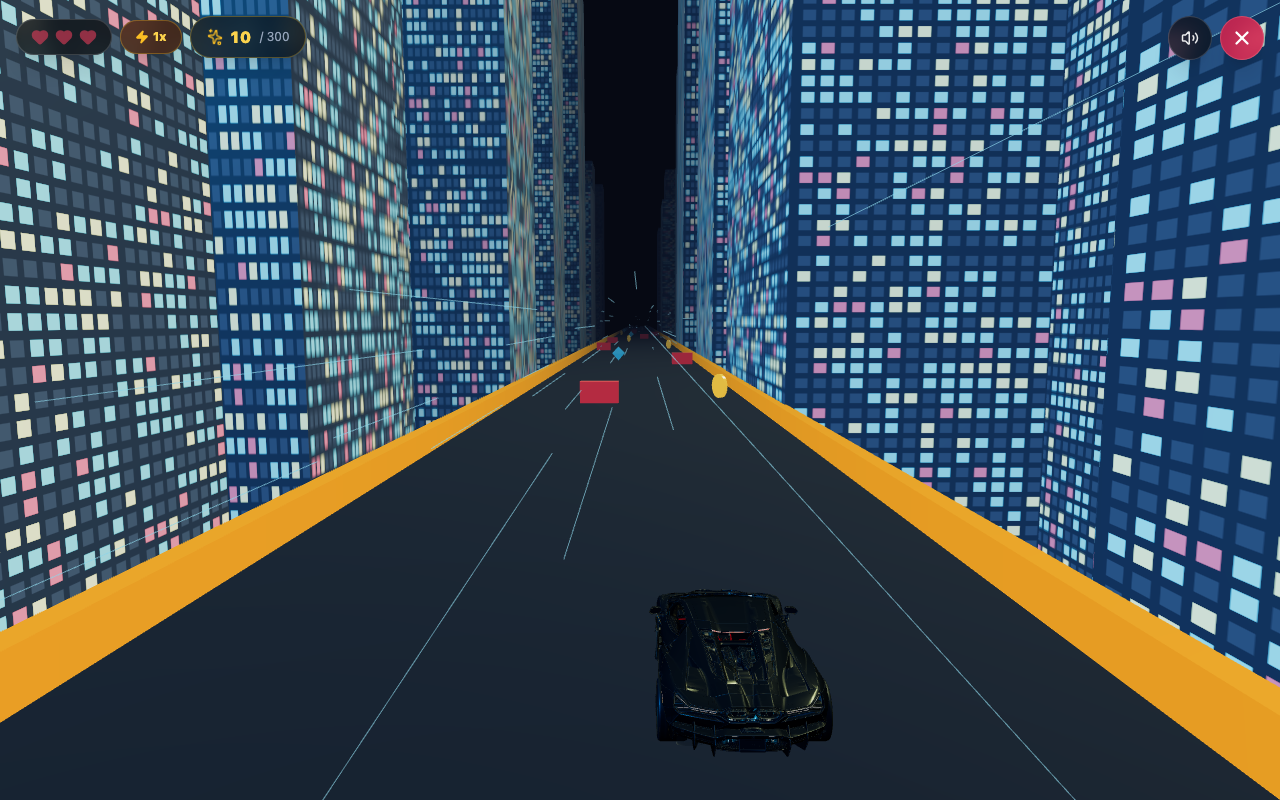
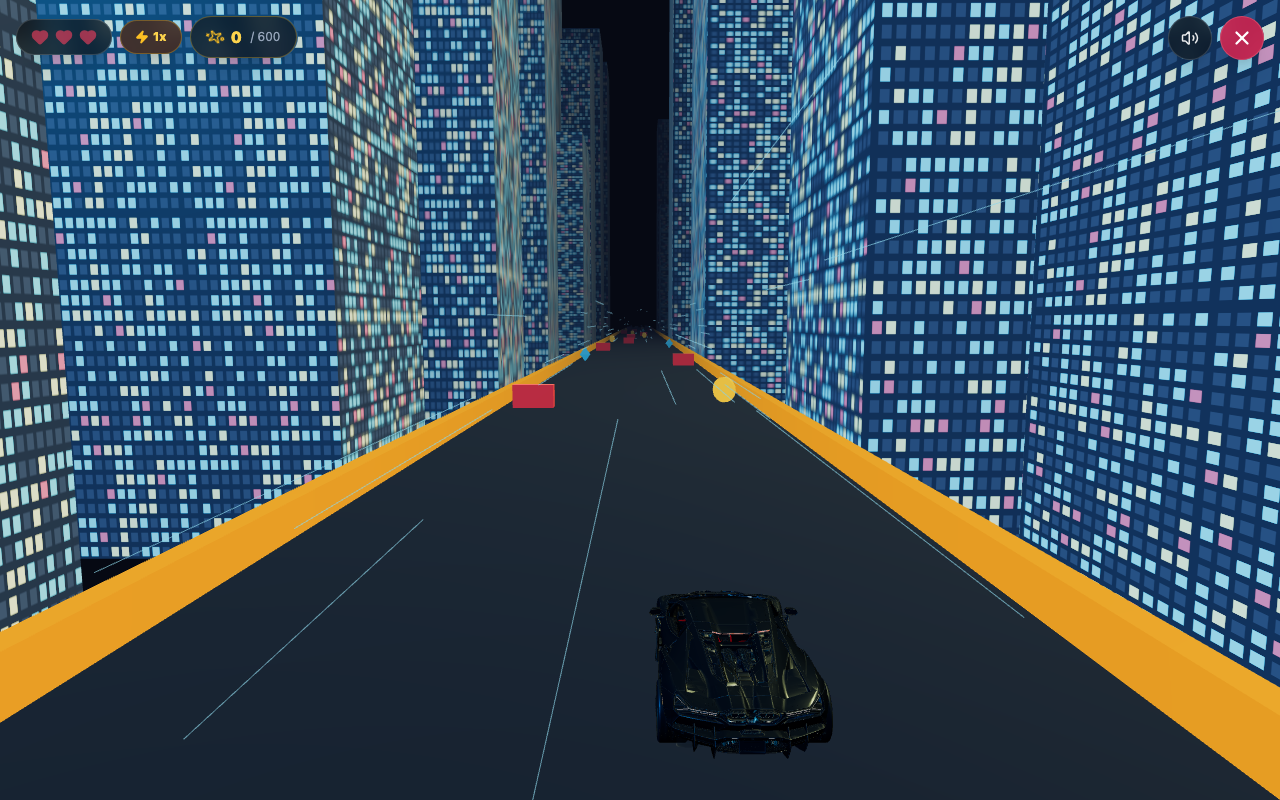
fix: realistic wet asphalt texture with bold 32px stripes, 3s collision slowdown with smooth recovery, 600 targetScore for 2x playtime duration across games

diff --git a/app/components/games/CarHighwayGame.tsx b/app/components/games/CarHighwayGame.tsx
@@ -66,45 +66,66 @@ const CARS: CarInfo[] = [
   },
 ];
 
-// Single Baked 4-Lane Asphalt Road Texture (Zero Z-Fighting, Zero Shadow Glitches)
+// Rich Realistic Wet Night Highway Asphalt Texture (Bold Crisp Stripes)
 function generateHighwayTextures() {
   const roadCanvas = document.createElement("canvas");
   roadCanvas.width = 512;
   roadCanvas.height = 512;
   const rCtx = roadCanvas.getContext("2d");
   if (rCtx) {
-    // Base dark asphalt
-    rCtx.fillStyle = "#1e293b";
+    // 1. Deep charcoal/navy wet asphalt base
+    rCtx.fillStyle = "#0d131d";
     rCtx.fillRect(0, 0, 512, 512);
 
-    // Fine asphalt grain noise
-    for (let i = 0; i < 7000; i++) {
+    // 2. Wet tire sheen / glossy reflection lanes
+    const sheenGrad = rCtx.createLinearGradient(0, 0, 512, 0);
+    sheenGrad.addColorStop(0, "rgba(20, 27, 41, 0.9)");
+    sheenGrad.addColorStop(0.25, "rgba(30, 41, 59, 0.6)");
+    sheenGrad.addColorStop(0.5, "rgba(15, 23, 42, 0.9)");
+    sheenGrad.addColorStop(0.75, "rgba(30, 41, 59, 0.6)");
+    sheenGrad.addColorStop(1, "rgba(20, 27, 41, 0.9)");
+    rCtx.fillStyle = sheenGrad;
+    rCtx.fillRect(0, 0, 512, 512);
+
+    // 3. Dense realistic asphalt aggregate noise
+    for (let i = 0; i < 12000; i++) {
       const x = Math.random() * 512;
       const y = Math.random() * 512;
-      const g = Math.floor(25 + Math.random() * 22);
-      rCtx.fillStyle = `rgb(${g}, ${g + 3}, ${g + 7})`;
-      rCtx.fillRect(x, y, 1.5, 1.5);
+      const shade = Math.floor(24 + Math.random() * 30);
+      rCtx.fillStyle = `rgb(${shade}, ${shade + 2}, ${shade + 6})`;
+      rCtx.fillRect(x, y, 2, 2);
     }
 
-    // 4 equal lanes: Dividers at 25%, 50%, 75% (128px, 256px, 384px)
-    rCtx.fillStyle = "#ffffff";
+    // 4. Crisp, bold white dashed lane dividers (32px wide for bold high-res visibility)
     [128, 256, 384].forEach((lx) => {
       for (let y = 0; y < 512; y += 64) {
-        rCtx.fillRect(lx - 4, y + 10, 8, 44);
+        // Outer soft glow
+        rCtx.fillStyle = "rgba(255, 255, 255, 0.3)";
+        rCtx.fillRect(lx - 16, y + 6, 32, 52);
+        // Solid pure white core
+        rCtx.fillStyle = "#ffffff";
+        rCtx.fillRect(lx - 12, y + 8, 24, 48);
       }
     });
 
-    // Solid bright amber shoulder lines
+    // 5. Solid bright safety amber highway shoulder lines (24px wide)
     rCtx.fillStyle = "#f59e0b";
-    rCtx.fillRect(4, 0, 10, 512);
-    rCtx.fillRect(512 - 14, 0, 10, 512);
+    rCtx.fillRect(0, 0, 22, 512);
+    rCtx.fillRect(512 - 22, 0, 22, 512);
+
+    // Inner bright yellow neon pinstripe
+    rCtx.fillStyle = "#fef08a";
+    rCtx.fillRect(16, 0, 6, 512);
+    rCtx.fillRect(512 - 22, 0, 6, 512);
   }
 
   const roadTex = new THREE.CanvasTexture(roadCanvas);
+  roadTex.generateMipmaps = false;
+  roadTex.minFilter = THREE.LinearFilter;
+  roadTex.magFilter = THREE.LinearFilter;
   roadTex.wrapS = THREE.RepeatWrapping;
   roadTex.wrapT = THREE.RepeatWrapping;
-  roadTex.repeat.set(1, 45);
-  roadTex.anisotropy = 8;
+  roadTex.repeat.set(1, 40);
   roadTex.needsUpdate = true;
 
   // Skyscraper window grid
@@ -122,11 +143,11 @@ function generateHighwayTextures() {
         if (r < 0.45) {
           bCtx.fillStyle = "#111827";
         } else if (r < 0.78) {
-          bCtx.fillStyle = "rgba(56, 189, 248, 0.95)"; // Neon Cyan
+          bCtx.fillStyle = "rgba(56, 189, 248, 0.95)";
         } else if (r < 0.94) {
-          bCtx.fillStyle = "rgba(254, 240, 138, 0.95)"; // Warm Amber
+          bCtx.fillStyle = "rgba(254, 240, 138, 0.95)";
         } else {
-          bCtx.fillStyle = "rgba(244, 63, 94, 0.9)"; // Red beacon
+          bCtx.fillStyle = "rgba(244, 63, 94, 0.9)";
         }
         bCtx.fillRect(x, y, 12, 14);
       }
@@ -190,7 +211,7 @@ class CarAudioSystem {
     if (!this.ctx || !this.engineOsc) return;
     try {
       const now = this.ctx.currentTime;
-      const targetFreq = 52 + speedRatio * 85;
+      const targetFreq = 50 + speedRatio * 80;
       this.engineOsc.frequency.setTargetAtTime(targetFreq, now, 0.1);
     } catch {}
   }
@@ -306,7 +327,7 @@ interface CarHighwayGameProps {
 export default function CarHighwayGame({
   onClose,
   onVictory,
-  targetScore = 500, // Doubled duration for long satisfying race!
+  targetScore = 600, // Doubled duration for long satisfying race!
 }: CarHighwayGameProps) {
   const mountRef = useRef<HTMLDivElement | null>(null);
   const audioSysRef = useRef<CarAudioSystem>(new CarAudioSystem());
@@ -322,7 +343,7 @@ export default function CarHighwayGame({
   const [soundMuted, setSoundMuted] = useState(false);
   const [hasInteracted, setHasInteracted] = useState(false);
 
-  // Exact 4-lane centers across 10m road (dividers at -2.5, 0.0, +2.5)
+  // Exact 4-lane centers across 10m road
   const LANES = [-3.75, -1.25, 1.25, 3.75];
 
   const gameRef = useRef({
@@ -330,11 +351,12 @@ export default function CarHighwayGame({
     score: 0,
     stars: 0,
     hearts: 3,
-    baseSpeed: 38,
-    speed: 38,
+    baseSpeed: 36,
+    speed: 36,
+    speedPenalty: 1.0, // Drops on crash to 0.45, recovers smoothly over 3s!
     targetX: 1.25,
     playerX: 1.25,
-    playerZ: -4.2, // Pushed forward so 100% of car body is visible in viewport!
+    playerZ: -4.2, // Fully visible with plenty of margin
     jumpY: 0,
     roadWidth: 10.0,
     roadLength: 500,
@@ -377,6 +399,7 @@ export default function CarHighwayGame({
     gameRef.current.targetX = 1.25;
     gameRef.current.playerX = 1.25;
     gameRef.current.jumpY = 0;
+    gameRef.current.speedPenalty = 1.0;
 
     if (gameRef.current.turntableMesh) {
       gameRef.current.turntableMesh.visible = false;
@@ -399,6 +422,7 @@ export default function CarHighwayGame({
     gameRef.current.stars = 0;
     gameRef.current.hearts = 3;
     gameRef.current.speed = gameRef.current.baseSpeed;
+    gameRef.current.speedPenalty = 1.0;
     gameRef.current.playerX = 1.25;
     gameRef.current.targetX = 1.25;
     gameRef.current.jumpY = 0;
@@ -429,6 +453,7 @@ export default function CarHighwayGame({
     gameRef.current.stars = 0;
     gameRef.current.hearts = 3;
     gameRef.current.speed = gameRef.current.baseSpeed;
+    gameRef.current.speedPenalty = 1.0;
     gameRef.current.playerX = 1.25;
     gameRef.current.targetX = 1.25;
     gameRef.current.jumpY = 0;
@@ -533,7 +558,7 @@ export default function CarHighwayGame({
     // 1. Scene
     const scene = new THREE.Scene();
     scene.background = new THREE.Color(0x060913);
-    scene.fog = new THREE.FogExp2(0x0a101f, 0.008);
+    scene.fog = new THREE.FogExp2(0x0a101f, 0.007);
     gameRef.current.scene = scene;
 
     // 2. Camera
@@ -542,7 +567,7 @@ export default function CarHighwayGame({
     camera.lookAt(0, 0.5, -1.8);
     gameRef.current.camera = camera;
 
-    // 3. Renderer (Clean 60fps, No shadow-map stair-stepping glitches)
+    // 3. Renderer (Clean 60fps, No shadow-map glitches)
     const renderer = new THREE.WebGLRenderer({ antialias: true, alpha: false, powerPreference: "high-performance" });
     renderer.setSize(width, height);
     renderer.setPixelRatio(Math.min(window.devicePixelRatio, 2));
@@ -568,7 +593,7 @@ export default function CarHighwayGame({
     scene.add(spotLight);
     scene.add(spotLight.target);
 
-    // 5. Seamless Asphalt Highway Deck (Baked Canvas with Zero Z-Fighting)
+    // 5. Seamless Wet Asphalt Highway Deck (Baked Canvas with Zero Z-Fighting)
     const roadWidth = 10.0;
     const roadLength = 500;
     const { roadTex, bldgTex } = generateHighwayTextures();
@@ -577,7 +602,7 @@ export default function CarHighwayGame({
     const roadGeo = new THREE.PlaneGeometry(roadWidth, roadLength);
     const roadMat = new THREE.MeshStandardMaterial({
       map: roadTex,
-      roughness: 0.75,
+      roughness: 0.35, // Sleek wet specular sheen
       metalness: 0.25,
       side: THREE.DoubleSide,
     });
@@ -616,7 +641,7 @@ export default function CarHighwayGame({
       scene.add(pier);
     }
 
-    // Active Glowing Skyscrapers (Strictly outside road boundaries: |x| >= 14.0)
+    // Active Glowing Night Skyscrapers
     const bldgMat = new THREE.MeshStandardMaterial({
       map: bldgTex,
       emissiveMap: bldgTex,
@@ -849,17 +874,24 @@ export default function CarHighwayGame({
       }
 
       if (gameRef.current.running) {
-        // Progressive gentle speed curve (max 1.35x cap, steady comfortable duration!)
-        const speedFactor = 1 + Math.min(gameRef.current.score / 400, 0.35);
-        gameRef.current.speed = gameRef.current.baseSpeed * speedFactor;
-        setSpeedMultiplier(parseFloat(speedFactor.toFixed(1)));
-        audioSysRef.current.updateEnginePitch(speedFactor);
+        // Smooth recovery from collision slowdown over 3.0 seconds
+        if (gameRef.current.speedPenalty < 1.0) {
+          gameRef.current.speedPenalty = Math.min(1.0, gameRef.current.speedPenalty + delta * 0.22);
+        }
 
-        const moveDist = gameRef.current.speed * delta;
+        // Progressive gentle speed curve: 1.0x -> max 1.30x over 600 points (2x longer duration!)
+        const speedFactor = 1.0 + Math.min(gameRef.current.score / 500, 0.3);
+        const effectiveSpeed = gameRef.current.baseSpeed * speedFactor * gameRef.current.speedPenalty;
+        gameRef.current.speed = effectiveSpeed;
 
-        // Smooth continuous UV texture scroll on single asphalt plane (ZERO Z-fighting)
+        setSpeedMultiplier(parseFloat((speedFactor * gameRef.current.speedPenalty).toFixed(1)));
+        audioSysRef.current.updateEnginePitch(speedFactor * gameRef.current.speedPenalty);
+
+        const moveDist = effectiveSpeed * delta;
+
+        // Smooth continuous UV texture scroll on single asphalt plane
         if (gameRef.current.roadTex) {
-          gameRef.current.roadTex.offset.y += (gameRef.current.speed / 500) * delta * 45;
+          gameRef.current.roadTex.offset.y += (effectiveSpeed / 500) * delta * 40;
         }
 
         // Move active skyscrapers
@@ -945,8 +977,9 @@ export default function CarHighwayGame({
                 item.collected = true;
                 item.mesh.visible = false;
                 gameRef.current.hearts -= 1;
-                gameRef.current.invincibleTimer = 1.6;
-                gameRef.current.jumpY = 0.35; // Nice bouncy collision jump that smoothly settles back down!
+                gameRef.current.invincibleTimer = 3.0; // 3 seconds blinking invincibility
+                gameRef.current.speedPenalty = 0.45; // Slow down to 45% then smoothly accelerate over 3s!
+                gameRef.current.jumpY = 0.35; // Bouncy shock jump
                 audioSysRef.current.playCrash();
                 setHearts(gameRef.current.hearts);
 

diff --git a/app/components/games/DragonSnowGame.tsx b/app/components/games/DragonSnowGame.tsx
@@ -151,7 +151,7 @@ class SoundEngine {
 export default function DragonSnowGame({
   onClose,
   onVictory,
-  targetScore = 500, // Doubled duration for long satisfying run!
+  targetScore = 600, // Doubled duration for long satisfying run!
 }: DragonSnowGameProps) {
   const mountRef = useRef<HTMLDivElement | null>(null);
   const soundEngineRef = useRef<SoundEngine>(new SoundEngine());
@@ -172,8 +172,9 @@ export default function DragonSnowGame({
     score: 0,
     stars: 0,
     hearts: 3,
-    baseSpeed: 30,
-    speed: 30,
+    baseSpeed: 28,
+    speed: 28,
+    speedPenalty: 1.0, // Slows on hit, recovers over 3s!
     targetX: 0,
     playerX: 0,
     playerZ: -2.0,
@@ -223,6 +224,7 @@ export default function DragonSnowGame({
     gameRef.current.stars = 0;
     gameRef.current.hearts = 3;
     gameRef.current.speed = gameRef.current.baseSpeed;
+    gameRef.current.speedPenalty = 1.0;
     gameRef.current.playerX = 0;
     gameRef.current.targetX = 0;
     gameRef.current.jumpY = 0;
@@ -337,7 +339,7 @@ export default function DragonSnowGame({
     groundMesh.position.set(0, 0, groundZCenter);
     scene.add(groundMesh);
 
-    // 6. Winter Pine Trees (Planted Firmly on Ground Banks)
+    // 6. Winter Pine Trees
     const treesList: THREE.Group[] = [];
     const numTrees = 32;
     for (let i = 0; i < numTrees; i++) {
@@ -413,7 +415,7 @@ export default function DragonSnowGame({
     const dragonRoot = new THREE.Group();
     const playerSlopeY = gameRef.current.playerZ * gameRef.current.slopeDropRatio;
     dragonRoot.position.set(0, playerSlopeY + 0.12, gameRef.current.playerZ);
-    dragonRoot.rotation.x = 0.35; // Leaning forward into snow!
+    dragonRoot.rotation.x = 0.35;
     scene.add(dragonRoot);
     gameRef.current.dragonRoot = dragonRoot;
 
@@ -459,7 +461,7 @@ export default function DragonSnowGame({
       }
     );
 
-    // 9. Deterministic Solvable Track Rows (Covering all 5 full lanes)
+    // 9. Deterministic Solvable Track Rows (5 full lanes)
     const starGeo = new THREE.OctahedronGeometry(0.45, 0);
     const starMat = new THREE.MeshStandardMaterial({
       color: 0xfacc15,
@@ -618,10 +620,16 @@ export default function DragonSnowGame({
       }
 
       if (gameRef.current.running) {
-        // Progressive gentle speed curve (max 1.35x cap, steady comfortable duration!)
-        const speedFactor = 1 + Math.min(gameRef.current.score / 400, 0.35);
-        gameRef.current.speed = gameRef.current.baseSpeed * speedFactor;
-        setSpeedMultiplier(parseFloat(speedFactor.toFixed(1)));
+        // Slowdown recovery over 3.0s after hitting rock
+        if (gameRef.current.speedPenalty < 1.0) {
+          gameRef.current.speedPenalty = Math.min(1.0, gameRef.current.speedPenalty + delta * 0.22);
+        }
+
+        // Progressive gentle speed curve: 1.0x -> max 1.30x over 600 points (2x longer duration!)
+        const speedFactor = 1.0 + Math.min(gameRef.current.score / 500, 0.3);
+        const effectiveSpeed = gameRef.current.baseSpeed * speedFactor * gameRef.current.speedPenalty;
+        gameRef.current.speed = effectiveSpeed;
+        setSpeedMultiplier(parseFloat((speedFactor * gameRef.current.speedPenalty).toFixed(1)));
 
         // Smooth Movement across gully
         const dx = gameRef.current.targetX - gameRef.current.playerX;
@@ -642,7 +650,7 @@ export default function DragonSnowGame({
         const bankAngle = -dx * 0.28 - normX * 0.22;
         dragonRoot.rotation.z = THREE.MathUtils.lerp(dragonRoot.rotation.z, bankAngle, delta * 12);
         dragonRoot.rotation.y = THREE.MathUtils.lerp(dragonRoot.rotation.y, dx * 0.16, delta * 10);
-        dragonRoot.rotation.x = 0.35; // Firmly on paws/feet!
+        dragonRoot.rotation.x = 0.35;
 
         // Dynamic snow carving plume
         const spawnCount = Math.abs(dx) > 0.05 ? 3 : 1;
@@ -690,7 +698,7 @@ export default function DragonSnowGame({
         camera.position.x = THREE.MathUtils.lerp(camera.position.x, gameRef.current.playerX * 0.3, delta * 6);
 
         // Move winter trees dynamically along the slope
-        const moveDist = gameRef.current.speed * delta;
+        const moveDist = effectiveSpeed * delta;
         gameRef.current.trees.forEach((tree) => {
           tree.position.z += moveDist;
           const slopeY = tree.position.z * gameRef.current.slopeDropRatio;
@@ -758,8 +766,9 @@ export default function DragonSnowGame({
                 item.collected = true;
                 item.mesh.visible = false;
                 gameRef.current.hearts -= 1;
-                gameRef.current.invincibleTimer = 1.6;
-                gameRef.current.jumpY = 0.35; // Bouncy collision jump without permanent camera displacement!
+                gameRef.current.invincibleTimer = 3.0; // 3 seconds invincibility
+                gameRef.current.speedPenalty = 0.5; // Slow down to 50% on hit then recover!
+                gameRef.current.jumpY = 0.35; // Bouncy collision jump
                 soundEngineRef.current.playHit();
                 setHearts(gameRef.current.hearts);
 

diff --git a/app/components/GameHubModal.tsx b/app/components/GameHubModal.tsx
@@ -27,7 +27,7 @@ export default function GameHubModal({
       {/* ACTIVE 3D DRAGON GAME */}
       {activeGameId === "dragon-snow" && (
         <DragonSnowGame
-          targetScore={300}
+          targetScore={600}
           onClose={() => setActiveGameId(null)}
           onVictory={(score, stars) => {
             if (onGameComplete) onGameComplete("dragon-snow", score, stars);
@@ -38,7 +38,7 @@ export default function GameHubModal({
       {/* ACTIVE 3D CAR HIGHWAY GAME */}
       {activeGameId === "car-highway" && (
         <CarHighwayGame
-          targetScore={300}
+          targetScore={600}
           onClose={() => setActiveGameId(null)}
           onVictory={(score, stars) => {
             if (onGameComplete) onGameComplete("car-highway", score, stars);

diff --git a/app/game-lab/page.tsx b/app/game-lab/page.tsx
@@ -16,7 +16,7 @@ export default function GameLabPage() {
       {/* DIRECT DRAGON 3D GAME */}
       {activeTest === "direct-dragon" && (
         <DragonSnowGame
-          targetScore={300}
+          targetScore={600}
           onClose={() => setActiveTest("none")}
           onVictory={(score, stars) => {
             setLastResult({ score, stars });
@@ -27,7 +27,7 @@ export default function GameLabPage() {
       {/* DIRECT CAR HIGHWAY 3D GAME */}
       {activeTest === "direct-car" && (
         <CarHighwayGame
-          targetScore={300}
+          targetScore={600}
           onClose={() => setActiveTest("none")}
           onVictory={(score, stars) => {
             setLastResult({ score, stars });
